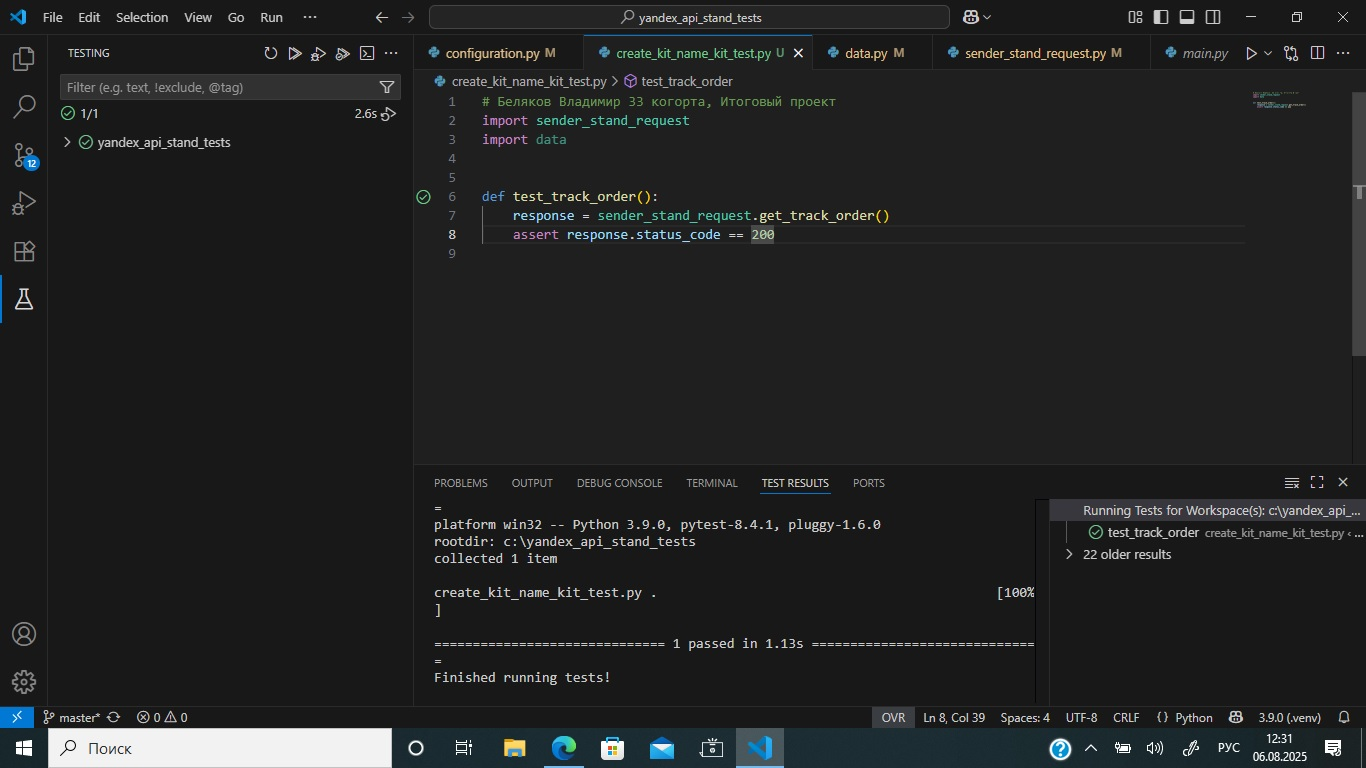
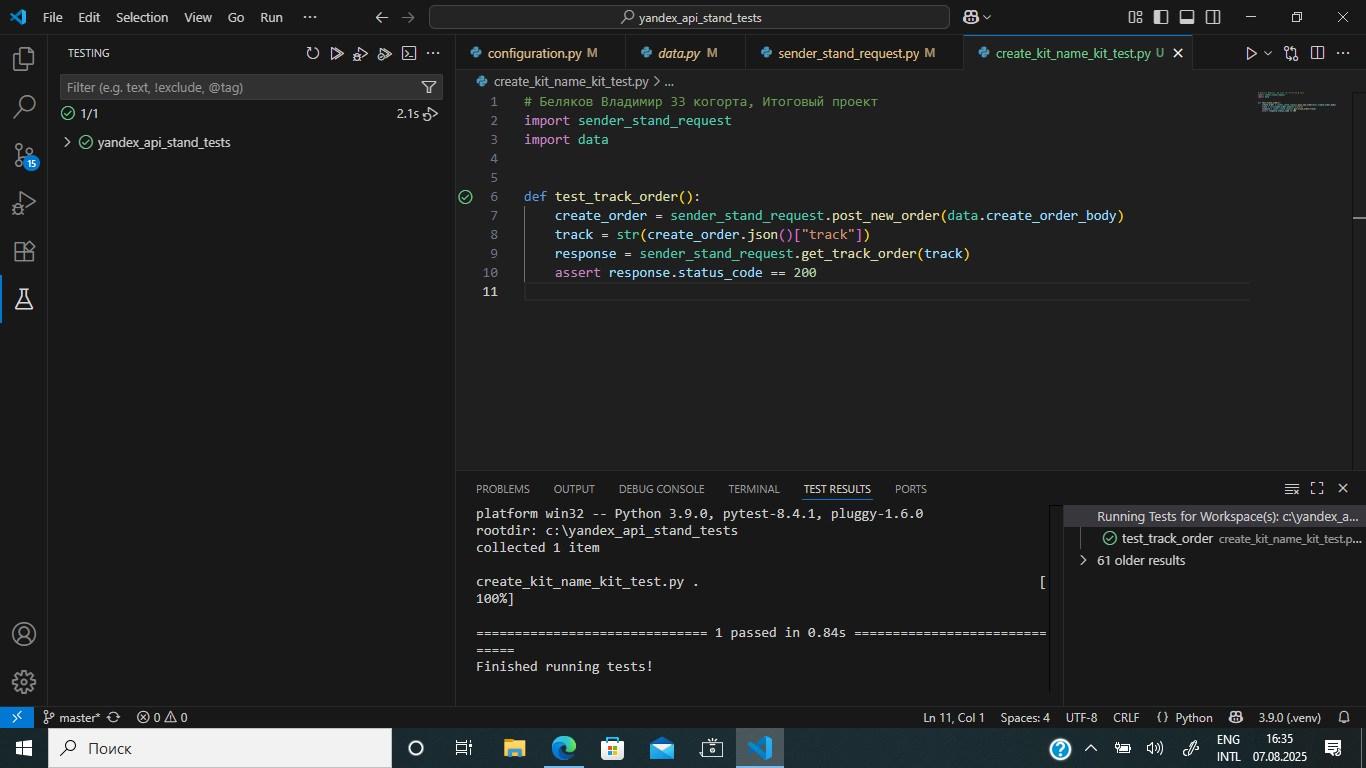
Теперь автотест проходит все шаги

diff --git a/sender_stand_request.py b/sender_stand_request.py
@@ -9,12 +9,5 @@ def post_new_order(body):
                          headers=data.headers)
 
 
-response = post_new_order(data.create_order_body)
-track = response.json()["track"]
-
-
-def get_track_order():
-    return requests.get(configuration.URL_SERVICE + configuration.TRACK_ORDER + "?t=" + str(track))
-
-
-response = get_track_order()
+def get_track_order(track):
+    return requests.get(configuration.URL_SERVICE + configuration.TRACK_ORDER + track)

diff --git a/create_kit_name_kit_test.py b/create_kit_name_kit_test.py
@@ -4,5 +4,7 @@ import data
 
 
 def test_track_order():
-    response = sender_stand_request.get_track_order()
+    create_order = sender_stand_request.post_new_order(data.create_order_body)
+    track = str(create_order.json()["track"])
+    response = sender_stand_request.get_track_order(track)
     assert response.status_code == 200

diff --git a/configuration.py b/configuration.py
@@ -1,3 +1,3 @@
-URL_SERVICE = "https://c9b18f41-8430-48b8-8f55-07f91019db3b.serverhub.praktikum-services.ru"
+URL_SERVICE = "https://ff77ffb9-54be-4234-8464-043e7d5b0d7a.serverhub.praktikum-services.ru"
 CREATE_ORDER = "/api/v1/orders/"
-TRACK_ORDER = "/api/v1/orders/track"
+TRACK_ORDER = "/api/v1/orders/track?t="
